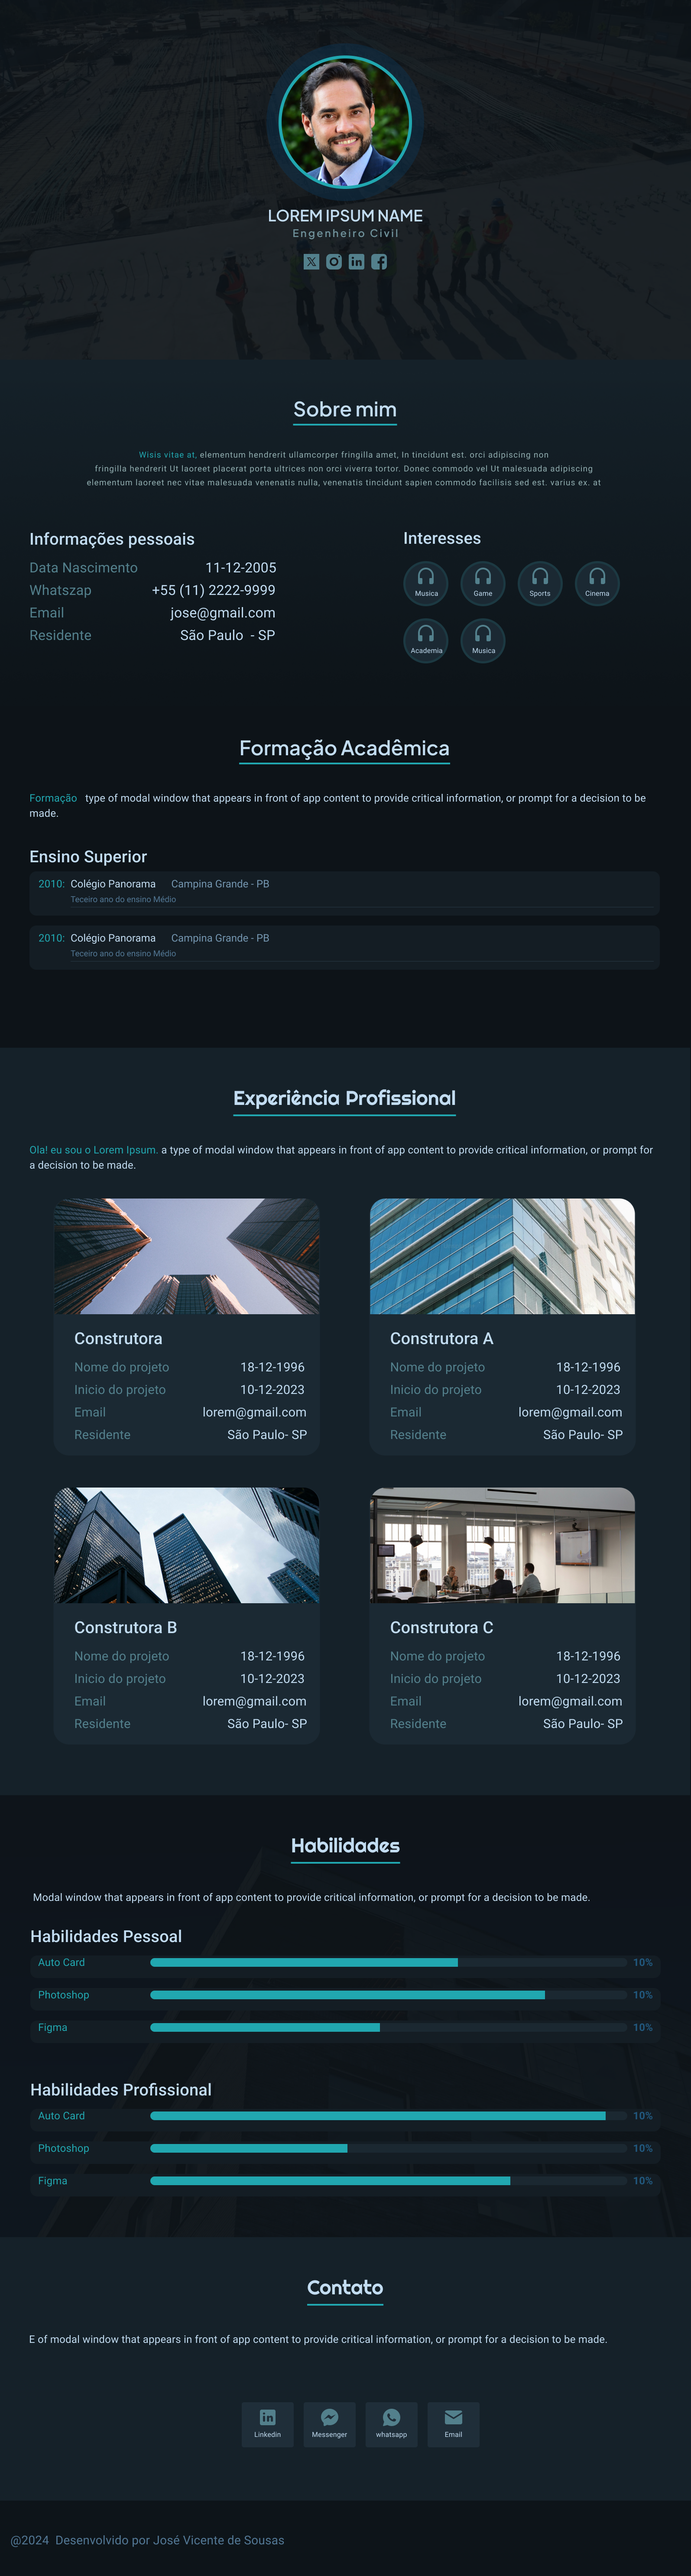
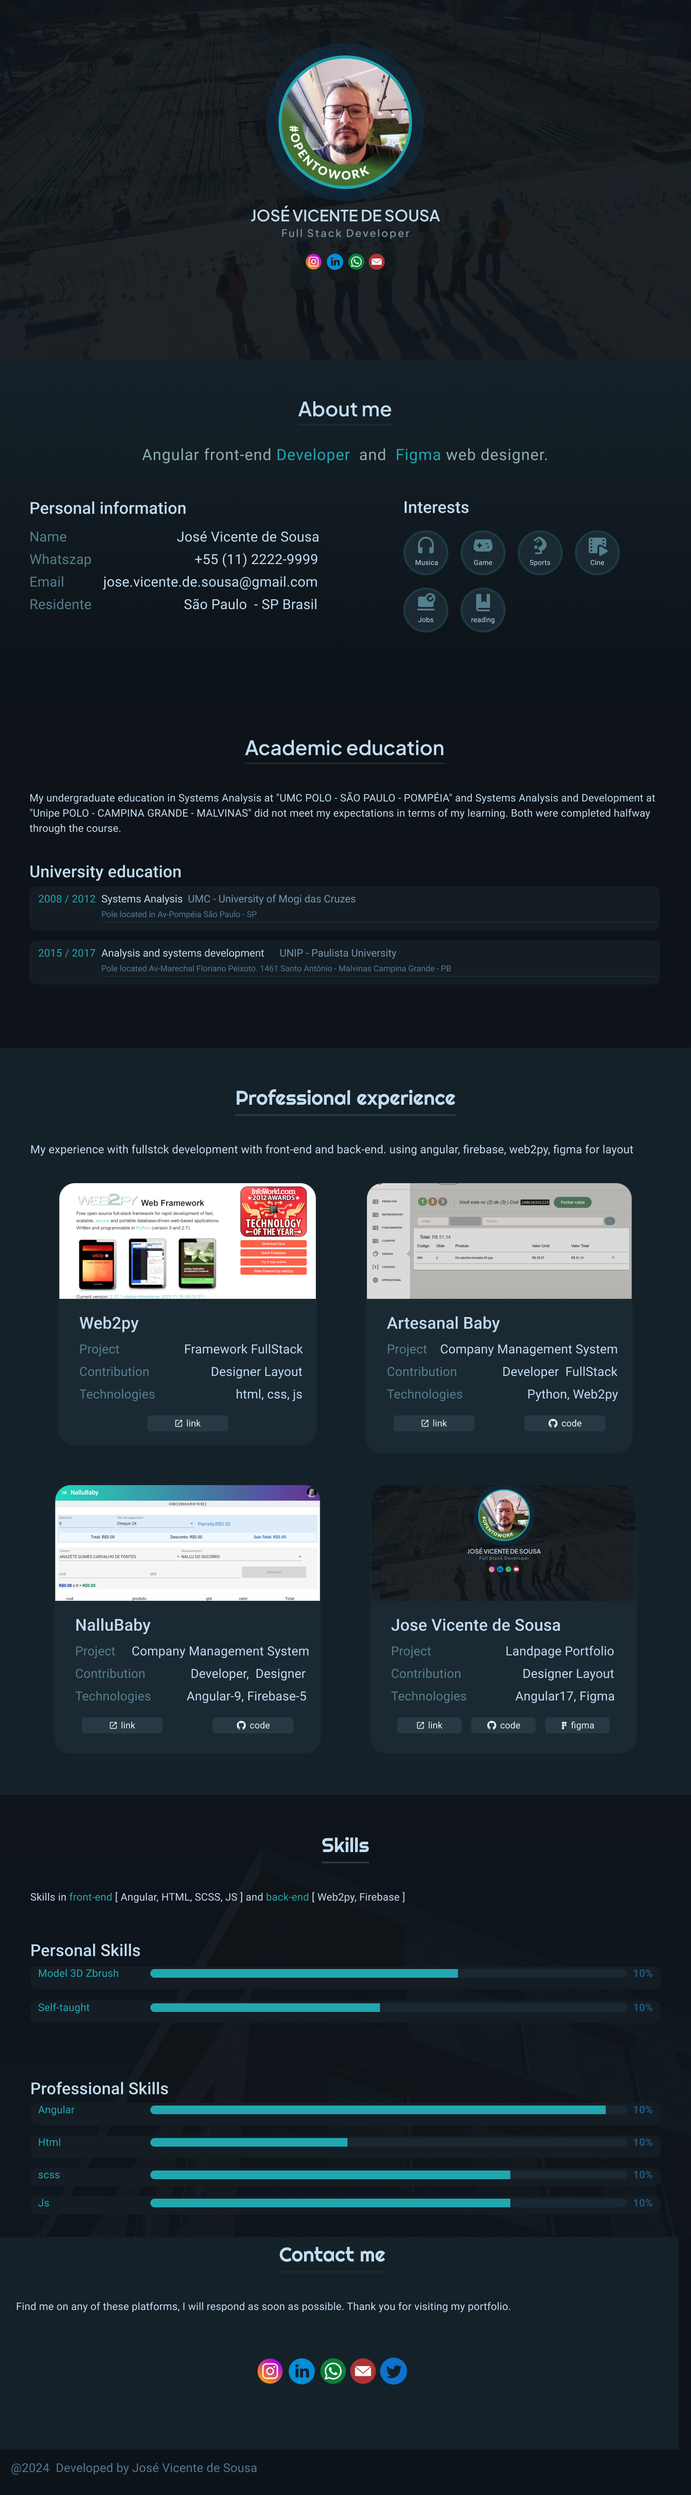
Alterando dados da section main

diff --git a/src/app/sections/home-sections/section-about/section-about.component.html b/src/app/sections/home-sections/section-about/section-about.component.html
@@ -1,24 +1,24 @@
 <section class="section">
     <div class="title">
-        <h1>Sobre mim</h1>
+        <h1>About me</h1>
     </div>
     <div class="primary-paragrafo">
         <p>
-            <b>Wisis vitae at</b>, elementum hendrerit ullamcorper fringilla amet, In tincidunt est. orci adipiscing non 
-            fringilla hendrerit Ut laoreet placerat porta ultrices non orci viverra tortor. Donec commodo vel Ut malesuada adipiscing 
-            elementum laoreet nec vitae malesuada venenatis nulla, venenatis tincidunt sapien commodo facilisis sed est. varius ex. at 
+            <!-- Olá Sou José Vicente de Sousa! Neste site irei mostrar projetos que estou criando ou que já estão finalizados, Atualmente Desenvolvo para web com as tecnologias <b>Angular</b> para o front-end e <b>Figma</b> para o designer. Espero que gostem dos meus projetos! -->
+            Hello, I'm José Vicente de Sousa! On this website, I will showcase projects that I'm currently working on or have already completed. Currently, I develop for the web using the <b>Angular</b> framework for front-end and <b>Figma</b> for design. I hope you enjoy my projects!
+       
         </p>
     </div>
     <section class="primary-section">
         <div class="informacoes-pessoais">
-            <h2>Iformações Pessoais</h2>
-            <p><b>Data nascimento</b> 11-12-1999</p>
-            <p><b>Whatsaap</b> +55 (11) 2222-9999</p>
-            <p><b>Email</b> josadil.com</p>
+            <h2>Personal information</h2>
+            <p><b>Name</b> José Vicente de Sousa</p>
+            <p><b>Whatsaap</b> +55 (83) 99322-2247</p>
+            <p><b>Email</b> jose.vicente.de.sousa<b>a</b>gmail.com.com</p>
             <p><b>Residente</b> São Paulo - SP</p>      
         </div>
         <div class="interesses">
-            <h2>Interesses</h2>
+            <h2>Interests</h2>
             <div class="icons-interesses">
                 <buttom-icon-primary [title]="'Musica'"></buttom-icon-primary>
                 <buttom-icon-primary [title]="'Game'"></buttom-icon-primary>

diff --git a/src/app/sections/home-sections/section-education/section-education.component.html b/src/app/sections/home-sections/section-education/section-education.component.html
@@ -1,6 +1,6 @@
 <section class="section">
     <div class="title">
-        <h1>Formação Acadêmica</h1>
+        <h1>Academic education</h1>
     </div>
     <div class="section-body">
         <div class="primary-paragrafo">
@@ -10,19 +10,21 @@
         </div>
 
         <div class="entidades-de-ensino">
-            <h2>Ensino</h2>
+            <h2>University education</h2>
             <div class="entidade">
-                <h3>2002 / 2004</h3>
-                <p>
-                    <b>Faculdade Motiva</b>
-                    curso arquitetura interiores
-                </p>
+                <h3>2008 / 2012 </h3>
+                    <p>
+                        Systems Analysis <span>UMC - University of Mogi das Cruzes</span>          
+                        <br>
+                        <span>Pole located in Av-Pompéia São Paulo - SP</span>   
+                    </p>
             </div>
             <div class="entidade">
-                <h3>2002 / 2004</h3>
+                <h3>2015 / 2017 </h3>
                 <p>
-                    <b>Faculdade Motiva</b>
-                    curso arquitetura interiores
+                    Analysis and systems developmen <span>UNIP - Paulista University</span>          
+                    <br>
+                    <span>Pole located Av-Marechal Floriano Peixoto. 1461 Santo Antônio - Malvinas Campina Grande - PB</span>   
                 </p>
             </div>
         </div>

diff --git a/src/app/sections/home-sections/section-education/section-education.component.scss b/src/app/sections/home-sections/section-education/section-education.component.scss
@@ -26,9 +26,9 @@
       padding: 13px 17px;
       border-radius: 9px;
       background-color: $primary-color-2;
+      font-family: Roboto, sans-serif;
 
       h3 {
-        font-family: Roboto, sans-serif;
         font-weight: 200;
         font-size: 17px;
         color: $detach-text;
@@ -41,9 +41,13 @@
         border-bottom: 1px solid $primary-color-3;
 
         b {
-          font-family: Roboto, sans-serif;
           font-size: small;
           letter-spacing: 1px;
+        }
+
+        span {
+          font-size: smaller;
+          color: $secondary-text;
         }
       }
     }

diff --git a/src/styles.scss b/src/styles.scss
@@ -32,7 +32,7 @@ main, footer {
     gap: 14px;
 
     .title{
-        border-bottom: 3px solid $detach-text;
+        border-bottom: 3px solid $detach-color;
         margin-bottom: 10px;
 
         h1 {
@@ -43,11 +43,12 @@ main, footer {
         }
     }
     .primary-paragrafo {
-        text-align: center;
+        text-align: justify;
         font-size: smaller;
         p {
             font-family: "Roboto", sans-serif;
             letter-spacing: 1px;
+            font-size: 16px;    
             color: $secondary-text;
             b {
                 color: $detach-text;

diff --git a/src/app/components/card-photo/card-photo.component.html b/src/app/components/card-photo/card-photo.component.html
@@ -1,10 +1,10 @@
 
 <div class="card">
     <div class="bord">
-        <img ngSrc="./assets/img/user.png" width="150" height="150">
+        <img ngSrc="./assets/img/user.jpeg" width="150" height="150">
     </div>
-    <h2>Lorem ipsum</h2>
-    <h4>Engenheiro Civil</h4>
+    <h2>JOSÉ VICENTE DE SOUSA</h2>
+    <h4>Full Stack Developer</h4>
     <p>
         <a href="http://a">
             <img ngSrc="./assets/icons/social/linkedin.svg" width="32" height="32">
